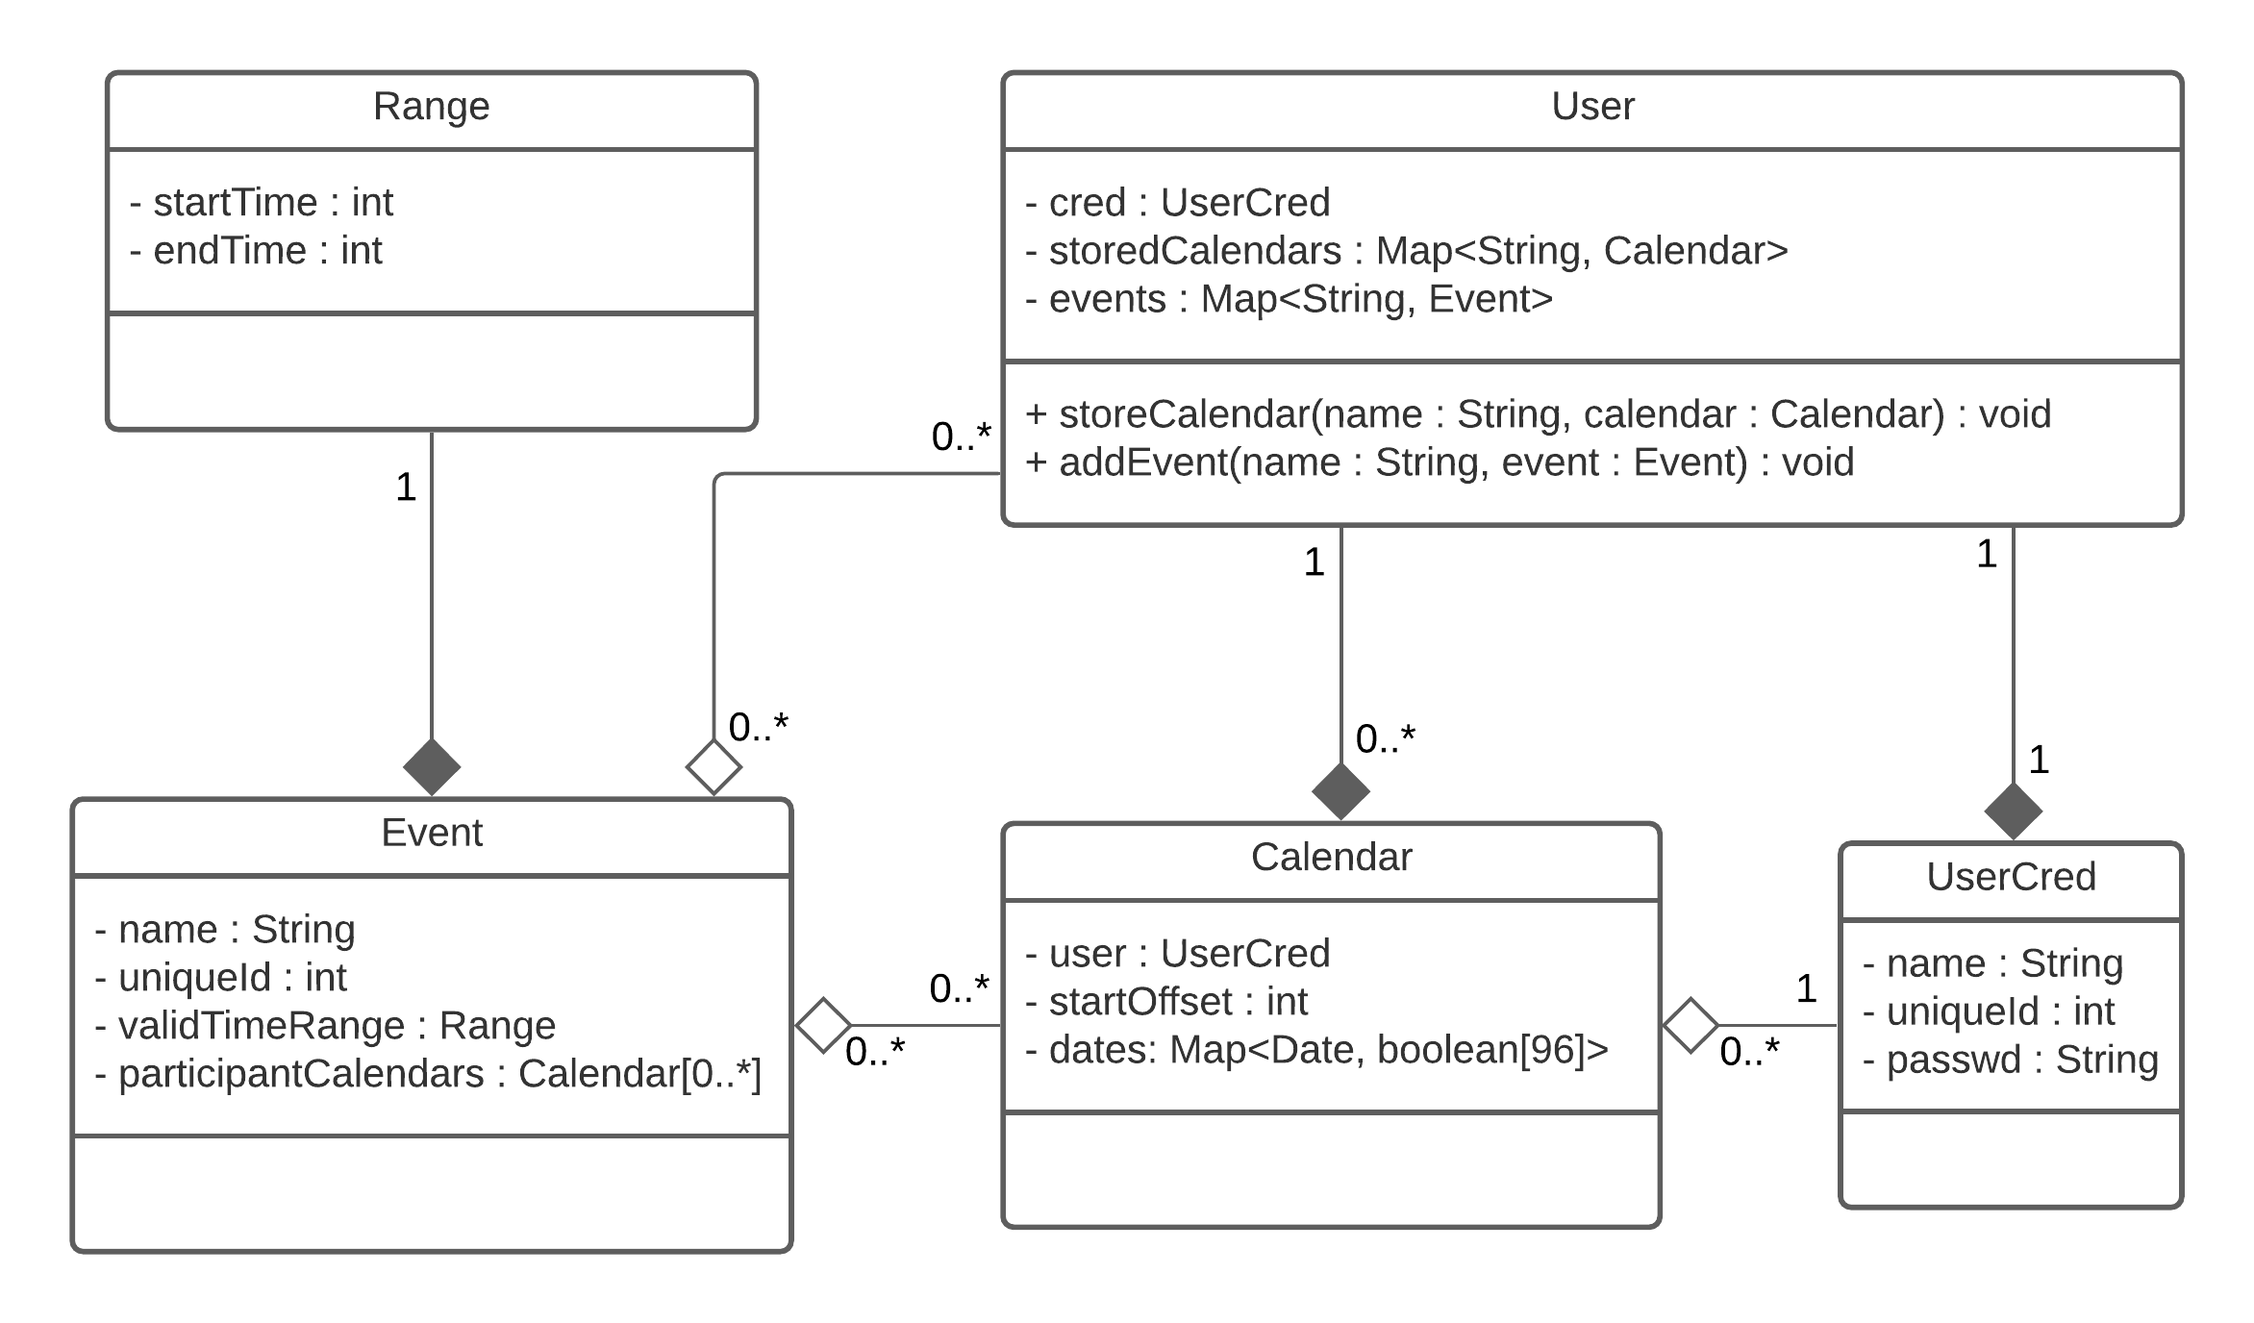
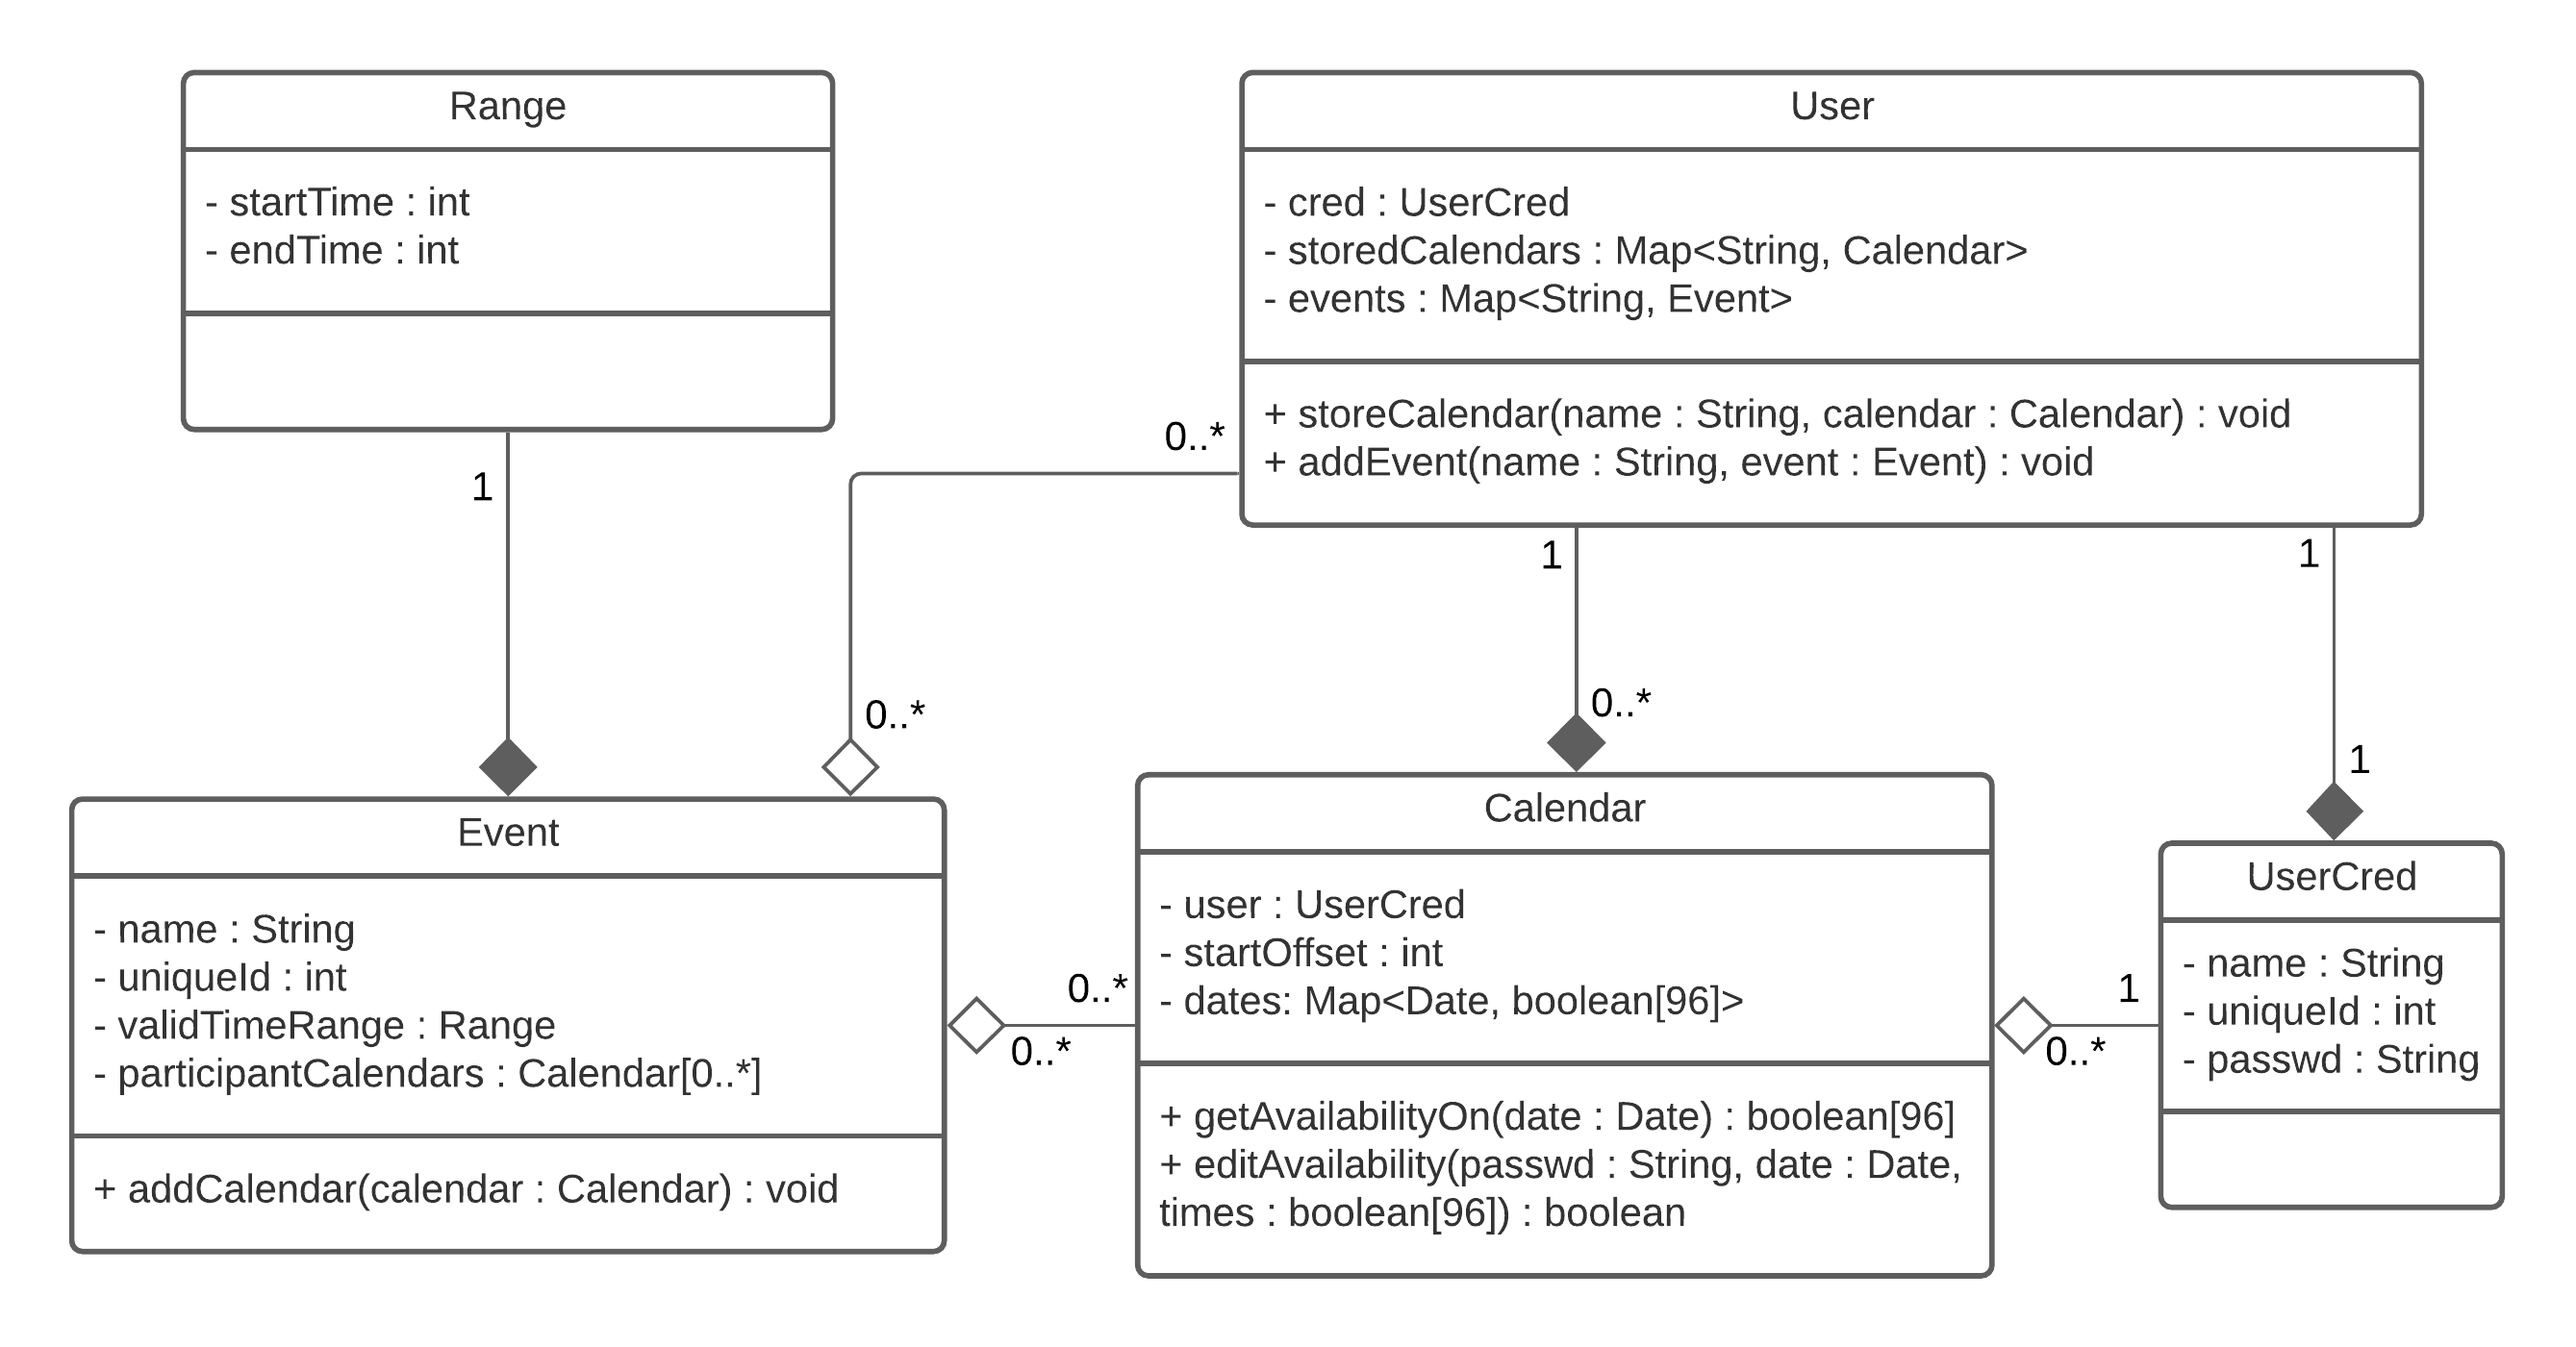
Final change to class diagram and updated a few classes

Changed region(s): [[0.0311, 0.0312, 0.9966, 0.9688]]

diff --git a/docs/exampleClasses/simple2meet/Event.java b/docs/exampleClasses/simple2meet/Event.java
@@ -1,10 +1,26 @@
 package simple2meet;
 
+import java.util.Collections;
 import java.util.List;
 
 public class Event {
+  private UserCred host;
   private String name;
   private int uniqueId;
   private Range validTimeRange;
   private List<Calendar> participantCalendars;
+
+  public void addCalendar(Calendar calendar) {
+    participantCalendars.add(calendar);
+  }
+
+  /*public List<Calendar> getCalendars() {
+    return Collections.unmodifiableList(participantCalendars);
+  }*/
+
+  /*public AggregateCalendar getAggregateCalendar(UserCred user) {
+    //Make a aggregateCalendar with everyone except the user passed in
+    return null;
+  }*/
 }
+

diff --git a/docs/exampleClasses/simple2meet/Calendar.java b/docs/exampleClasses/simple2meet/Calendar.java
@@ -7,4 +7,12 @@ public class Calendar {
   private UserCred user;
   private int startOffset;
   private Map<Date, boolean[]> dateRanges;
+
+  public boolean[] getAvailabilityOn(Date date) {
+    return null;
+  }
+
+  public boolean editAvailability(String passwd, Date date, boolean[] times) {
+    return false;
+  }
 }

diff --git a/docs/exampleClasses/simple2meet/AggregateCalendar.java b/docs/exampleClasses/simple2meet/AggregateCalendar.java
@@ -1,0 +1,9 @@
+package simple2meet;
+
+import java.util.Date;
+import java.util.List;
+
+public class AggregateCalendar {
+  Date date;
+  List[] hours; //List<String>
+}
